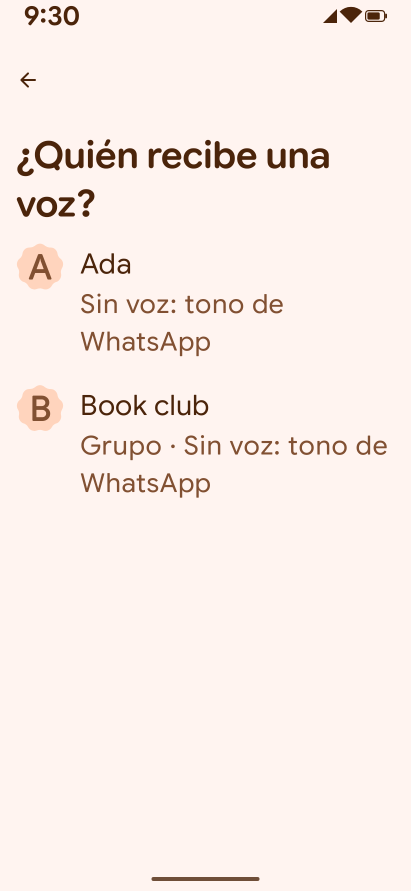
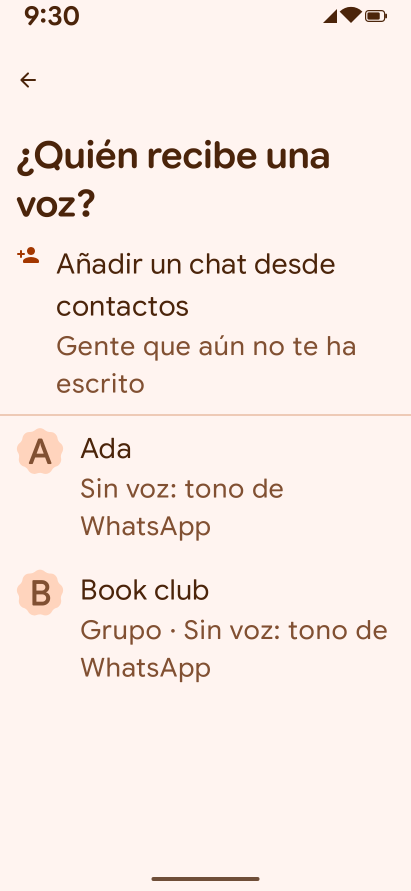
feat(contacts): add a chat from contacts and link it on its first message
Explainer, READ_CONTACTS only after it, the WhatsApp entries of Android's
contacts with search, waiting chats on Home, linking only on an exact,
unique match with no namesake, and "Who is this?" for the rest (ADR 0065).

diff --git a/android/app/src/main/kotlin/app/mauri/cucuto/ui/contacts/AddFromContactsScreen.kt b/android/app/src/main/kotlin/app/mauri/cucuto/ui/contacts/AddFromContactsScreen.kt
@@ -193,10 +193,27 @@ fun AddFromContactsContent(
         },
     ) { padding ->
         when (state.step) {
-            AddStep.Explainer -> Explainer(Modifier.padding(padding))
-            AddStep.Loading -> Loading(Modifier.padding(padding))
-            AddStep.Denied -> Denied(onOpenSettings, onContinue, onBack, Modifier.padding(padding))
-            AddStep.List -> if (state.total == 0) Empty(onBack, Modifier.padding(padding)) else ContactList(state, padding, onQueryChange, onToggle)
+            AddStep.Explainer -> {
+                Explainer(Modifier.padding(padding))
+            }
+
+            AddStep.Loading -> {
+                Loading(Modifier.padding(padding))
+            }
+
+            AddStep.Denied -> {
+                Denied(onOpenSettings, onContinue, onBack, Modifier.padding(padding))
+            }
+
+            AddStep.List -> {
+                if (state.total ==
+                    0
+                ) {
+                    Empty(onBack, Modifier.padding(padding))
+                } else {
+                    ContactList(state, padding, onQueryChange, onToggle)
+                }
+            }
         }
     }
 }
@@ -207,7 +224,12 @@ private fun Explainer(modifier: Modifier = Modifier) {
     val source = stringResource(R.string.settings_source_url)
     Column(
         verticalArrangement = Arrangement.spacedBy(16.dp),
-        modifier = modifier.fillMaxSize().verticalScroll(rememberScrollState()).padding(horizontal = 24.dp, vertical = 8.dp),
+        modifier =
+            modifier
+                .fillMaxSize()
+                .verticalScroll(
+                    rememberScrollState(),
+                ).padding(horizontal = 24.dp, vertical = 8.dp),
     ) {
         Text(stringResource(R.string.contacts_explainer_lead), style = MaterialTheme.typography.bodyLarge)
         ExplainerPart(R.string.contacts_explainer_reads_title, R.string.contacts_explainer_reads_body)
@@ -290,7 +312,12 @@ private fun Message(
     Column(
         horizontalAlignment = Alignment.CenterHorizontally,
         verticalArrangement = Arrangement.spacedBy(12.dp),
-        modifier = modifier.fillMaxSize().verticalScroll(rememberScrollState()).padding(horizontal = 32.dp, vertical = 24.dp),
+        modifier =
+            modifier
+                .fillMaxSize()
+                .verticalScroll(
+                    rememberScrollState(),
+                ).padding(horizontal = 32.dp, vertical = 24.dp),
     ) {
         CuckooDoor(beat = null, contentDescription = null, modifier = Modifier.size(120.dp))
         Text(
@@ -350,7 +377,10 @@ private fun ContactList(
                     trailingIcon = {
                         if (state.query.isNotEmpty()) {
                             IconButton(onClick = { onQueryChange("") }) {
-                                Icon(Icons.Rounded.Close, contentDescription = stringResource(R.string.contacts_search_clear))
+                                Icon(
+                                    Icons.Rounded.Close,
+                                    contentDescription = stringResource(R.string.contacts_search_clear),
+                                )
                             }
                         }
                     },
@@ -416,7 +446,8 @@ private fun ContactItem(
 }
 
 /** An E.164 number as this phone writes numbers, or as it is when Android cannot format it. */
-internal fun formatNumber(e164: String): String = PhoneNumberUtils.formatNumber(e164, Locale.getDefault().country) ?: e164
+internal fun formatNumber(e164: String): String =
+    PhoneNumberUtils.formatNumber(e164, Locale.getDefault().country) ?: e164
 
 /** Made-up WhatsApp entries for previews and tests: no real names or numbers. */
 internal fun previewContactsState(): AddFromContactsState {
@@ -430,7 +461,11 @@ internal fun previewContactsState(): AddFromContactsState {
         listOf(
             ContactRow(entry("lk-1", "Ada", "34600000001"), known = true, selected = true),
             ContactRow(entry("lk-2", "Bruno", "34600000002"), known = false, selected = true),
-            ContactRow(entry("lk-2", "Bruno", "34600000002", ChatKey.WHATSAPP_BUSINESS), known = false, selected = false),
+            ContactRow(
+                entry("lk-2", "Bruno", "34600000002", ChatKey.WHATSAPP_BUSINESS),
+                known = false,
+                selected = false,
+            ),
             ContactRow(entry("lk-3", "Carla", "34600000003"), known = false, selected = false),
             ContactRow(entry("lk-4", "Dani", "34600000004"), known = false, selected = true),
             ContactRow(entry("lk-5", "Elena", "34600000005"), known = false, selected = false),

diff --git a/android/app/src/main/kotlin/app/mauri/cucuto/home/HomeScreen.kt b/android/app/src/main/kotlin/app/mauri/cucuto/home/HomeScreen.kt
@@ -29,6 +29,7 @@ import androidx.compose.material.icons.rounded.Add
 import androidx.compose.material.icons.rounded.Close
 import androidx.compose.material.icons.rounded.Search
 import androidx.compose.material3.Button
+import androidx.compose.material3.ButtonDefaults
 import androidx.compose.material3.Card
 import androidx.compose.material3.CardDefaults
 import androidx.compose.material3.DropdownMenu
@@ -40,10 +41,9 @@ import androidx.compose.material3.Icon
 import androidx.compose.material3.IconButton
 import androidx.compose.material3.ListItem
 import androidx.compose.material3.ListItemDefaults
-import androidx.compose.material3.OutlinedButton
-import androidx.compose.material3.ButtonDefaults
 import androidx.compose.material3.LoadingIndicator
 import androidx.compose.material3.MaterialTheme
+import androidx.compose.material3.OutlinedButton
 import androidx.compose.material3.Scaffold
 import androidx.compose.material3.SearchBarDefaults
 import androidx.compose.material3.Surface
@@ -89,9 +89,9 @@ import app.mauri.cucuto.navigation.CucutoDestination
 import app.mauri.cucuto.packs.ui.PackPickerTypes
 import app.mauri.cucuto.ui.chat.chatSupportingText
 import app.mauri.cucuto.ui.components.CuckooDoor
-import app.mauri.cucuto.ui.contacts.PersonAddIcon
 import app.mauri.cucuto.ui.components.VoiceAvatar
 import app.mauri.cucuto.ui.components.adaptiveMaxLines
+import app.mauri.cucuto.ui.contacts.PersonAddIcon
 import app.mauri.cucuto.ui.feedback.Feedback
 import app.mauri.cucuto.ui.feedback.LocalFeedback
 import app.mauri.cucuto.ui.motion.SharedElement
@@ -258,7 +258,10 @@ fun HomeContent(
             }
             if (state.showQuestions) {
                 item(key = "questions-header") { SectionHeader(stringResource(R.string.home_questions_header)) }
-                items(state.questions, key = { "question/${it.key.packageName}/${it.key.conversationKey}" }) { question ->
+                items(
+                    state.questions,
+                    key = { "question/${it.key.packageName}/${it.key.conversationKey}" },
+                ) { question ->
                     QuestionItem(question) {
                         feedback.fire(Feedback.Tap)
                         onOpenQuestion(question.key)
@@ -726,7 +729,17 @@ internal fun previewHomeStateWithQuestion(now: Long = PREVIEW_NOW): HomeState {
             ),
         ) +
             listOf(leo1, leo2).map {
-                Chat(it.key, it.contactId, "Leo", false, null, null, 0, awaitingLink = true, phoneNumbers = it.phoneNumbers)
+                Chat(
+                    it.key,
+                    it.contactId,
+                    "Leo",
+                    false,
+                    null,
+                    null,
+                    0,
+                    awaitingLink = true,
+                    phoneNumbers = it.phoneNumbers,
+                )
             }
     return buildHomeState(chats, packs = emptyList(), query = "", packFilter = null, now = now)
 }

diff --git a/android/app/src/main/kotlin/app/mauri/cucuto/ui/contacts/PersonAddIcon.kt b/android/app/src/main/kotlin/app/mauri/cucuto/ui/contacts/PersonAddIcon.kt
@@ -12,12 +12,18 @@ import androidx.compose.ui.unit.dp
  */
 val PersonAddIcon: ImageVector by lazy {
     ImageVector
-        .Builder("PersonAdd", defaultWidth = 24.dp, defaultHeight = 24.dp, viewportWidth = 24f, viewportHeight = 24f)
-        .addPath(
+        .Builder(
+            "PersonAdd",
+            defaultWidth = 24.dp,
+            defaultHeight = 24.dp,
+            viewportWidth = 24f,
+            viewportHeight = 24f,
+        ).addPath(
             pathData =
                 addPathNodes(
-                    "M15 12c2.21 0 4-1.79 4-4s-1.79-4-4-4-4 1.79-4 4 1.79 4 4 4zm-9-2V8c0-.55-.45-1-1-1s-1 .45-1 1v2H2" +
-                        "c-.55 0-1 .45-1 1s.45 1 1 1h2v2c0 .55.45 1 1 1s1-.45 1-1v-2h2c.55 0 1-.45 1-1s-.45-1-1-1H6zm9 4" +
+                    "M15 12c2.21 0 4-1.79 4-4s-1.79-4-4-4-4 1.79-4 4 1.79 4 4 4z" +
+                        "m-9-2V8c0-.55-.45-1-1-1s-1 .45-1 1v2H2c-.55 0-1 .45-1 1s.45 1 1 1h2v2" +
+                        "c0 .55.45 1 1 1s1-.45 1-1v-2h2c.55 0 1-.45 1-1s-.45-1-1-1H6zm9 4" +
                         "c-2.67 0-8 1.34-8 4v1c0 .55.45 1 1 1h14c.55 0 1-.45 1-1v-1c0-2.66-5.33-4-8-4z",
                 ),
             fill = SolidColor(Color.Black),

diff --git a/android/core/data/src/test/kotlin/app/mauri/cucuto/core/data/chats/ChatLinkerTest.kt b/android/core/data/src/test/kotlin/app/mauri/cucuto/core/data/chats/ChatLinkerTest.kt
@@ -64,7 +64,15 @@ class ChatLinkerTest {
         key: String,
         name: String?,
         packageName: String = WA,
-    ) = sightings.record(packageName, key, name, isGroup = false, seenAt = clock.now(), senderKey = null, senderName = null)
+    ) = sightings.record(
+        packageName,
+        key,
+        name,
+        isGroup = false,
+        seenAt = clock.now(),
+        senderKey = null,
+        senderName = null,
+    )
 
     private suspend fun chats() = directory.observeChats().first()
 
@@ -146,7 +154,14 @@ class ChatLinkerTest {
 
             val asked = chats().filter { it.linkCandidates.isNotEmpty() }
             assertEquals(setOf(ChatKey(WA, ANA_LID), ChatKey(WA, OTHER_LID)), asked.map { it.key }.toSet())
-            assertEquals(listOf(firstId, secondId), asked.first().linkCandidates.map { it.contactId }.sorted())
+            assertEquals(
+                listOf(firstId, secondId),
+                asked
+                    .first()
+                    .linkCandidates
+                    .map { it.contactId }
+                    .sorted(),
+            )
 
             linker.confirmLink(ChatKey(WA, ANA_LID), firstId)
 

diff --git a/android/core/data/src/main/kotlin/app/mauri/cucuto/core/data/chats/ChatLinker.kt b/android/core/data/src/main/kotlin/app/mauri/cucuto/core/data/chats/ChatLinker.kt
@@ -121,11 +121,15 @@ class ChatLinker
 
         /** A 1:1 contact already linked to [person]'s Android contact with a key in the same app (phone ringtones). */
         private suspend fun alreadyLinked(person: WhatsAppContact): Long? =
-            contacts.observeContacts().first().firstOrNull { contact ->
-                !contact.contact.isGroup &&
-                    contact.contact.androidLookupKey == person.lookupKey &&
-                    contact.keys.any { it.packageName == person.packageName }
-            }?.contact?.id
+            contacts
+                .observeContacts()
+                .first()
+                .firstOrNull { contact ->
+                    !contact.contact.isGroup &&
+                        contact.contact.androidLookupKey == person.lookupKey &&
+                        contact.keys.any { it.packageName == person.packageName }
+                }?.contact
+                ?.id
 
         /**
          * A chat made from a recent sender, with no Android link, that is [person] by the same rules as linking: the

diff --git a/android/core/data/src/test/kotlin/app/mauri/cucuto/core/data/chats/ChatLinkRulesTest.kt b/android/core/data/src/test/kotlin/app/mauri/cucuto/core/data/chats/ChatLinkRulesTest.kt
@@ -11,12 +11,14 @@ class ChatLinkRulesTest {
     private val anaSighting = UnlinkedSighting(ChatKey(WA, "100000000000001@lid"), "Ana Test")
 
     /** Contacts hold exactly these WhatsApp entries. */
-    private fun entries(vararg people: Pair<String, String>, packageName: String = WA) =
-        ChatLinkRules.namesakesOf(
-            people.mapIndexed { i, (lookupKey, name) ->
-                WhatsAppContact(lookupKey, name, packageName, listOf("3460000000$i@s.whatsapp.net"))
-            },
-        )
+    private fun entries(
+        vararg people: Pair<String, String>,
+        packageName: String = WA,
+    ) = ChatLinkRules.namesakesOf(
+        people.mapIndexed { i, (lookupKey, name) ->
+            WhatsAppContact(lookupKey, name, packageName, listOf("3460000000$i@s.whatsapp.net"))
+        },
+    )
 
     @Test
     fun `an exact unique match links, ignoring case, surrounding spaces and Unicode form`() {

diff --git a/android/app/src/test/kotlin/app/mauri/cucuto/ui/contacts/AddFromContactsViewModelTest.kt b/android/app/src/test/kotlin/app/mauri/cucuto/ui/contacts/AddFromContactsViewModelTest.kt
@@ -81,7 +81,12 @@ class AddFromContactsViewModelTest {
         val anaRow = vm.now.rows.first()
         assertTrue(anaRow.known && anaRow.selected)
         vm.toggle(anaRow.id)
-        assertTrue("known people cannot be unpicked or added twice", vm.now.rows.first().selected)
+        assertTrue(
+            "known people cannot be unpicked or added twice",
+            vm.now.rows
+                .first()
+                .selected,
+        )
         assertEquals(0, vm.now.selected)
     }
 
@@ -129,7 +134,11 @@ class AddFromContactsViewModelTest {
             assertTrue(chats.added.isEmpty())
 
             chats.failAdd = true
-            vm.toggle(vm.now.rows.first().id)
+            vm.toggle(
+                vm.now.rows
+                    .first()
+                    .id,
+            )
             vm.save()
             assertTrue(vm.now.failed)
             assertNull(vm.now.done)

diff --git a/android/core/ringtone/src/test/kotlin/app/mauri/cucuto/core/ringtone/contacts/WhatsAppContactsQueryTest.kt b/android/core/ringtone/src/test/kotlin/app/mauri/cucuto/core/ringtone/contacts/WhatsAppContactsQueryTest.kt
@@ -79,7 +79,12 @@ class WhatsAppContactsQueryTest {
                         ChatKey.WHATSAPP,
                         listOf("34600000001@s.whatsapp.net", "447700900001@s.whatsapp.net"),
                     ),
-                    WhatsAppContact("lk-ana", "Ana Test", ChatKey.WHATSAPP_BUSINESS, listOf("34600000001@s.whatsapp.net")),
+                    WhatsAppContact(
+                        "lk-ana",
+                        "Ana Test",
+                        ChatKey.WHATSAPP_BUSINESS,
+                        listOf("34600000001@s.whatsapp.net"),
+                    ),
                     WhatsAppContact("lk-eva", "Éva Test", ChatKey.WHATSAPP, listOf("34600000004@s.whatsapp.net")),
                     WhatsAppContact("lk-zoe", "Zoe Test", ChatKey.WHATSAPP, listOf("34600000003@s.whatsapp.net")),
                 ),

diff --git a/android/core/data/src/main/kotlin/app/mauri/cucuto/core/data/chats/Chat.kt b/android/core/data/src/main/kotlin/app/mauri/cucuto/core/data/chats/Chat.kt
@@ -192,7 +192,13 @@ internal fun mergeChats(
                 contact.contact.id to
                     LinkCandidate(
                         contactId = contact.contact.id,
-                        key = contact.keys.first { it.kind == ContactKeyKind.PHONE_JID }.let { ChatKey(it.packageName, it.value) },
+                        key =
+                            contact.keys.first { it.kind == ContactKeyKind.PHONE_JID }.let {
+                                ChatKey(
+                                    it.packageName,
+                                    it.value,
+                                )
+                            },
                         displayName = contact.contact.displayName,
                         phoneNumbers = phoneNumbersOf(contact),
                         voice = voices[contact.contact.id],

diff --git a/android/app/src/main/kotlin/app/mauri/cucuto/ui/contacts/AddFromContactsViewModel.kt b/android/app/src/main/kotlin/app/mauri/cucuto/ui/contacts/AddFromContactsViewModel.kt
@@ -155,8 +155,13 @@ class AddFromContactsViewModel
             val needle = _state.value.query.searchable()
             val rows =
                 entries
-                    .filter { needle.isEmpty() || it.displayName.orEmpty().searchable().contains(needle) }
-                    .map { entry ->
+                    .filter {
+                        needle.isEmpty() ||
+                            it.displayName
+                                .orEmpty()
+                                .searchable()
+                                .contains(needle)
+                    }.map { entry ->
                         val isKnown = entry in known
                         val id = EntryId(entry.packageName, entry.lookupKey)
                         ContactRow(entry, known = isKnown, selected = isKnown || id in picked)

diff --git a/android/app/src/main/kotlin/app/mauri/cucuto/navigation/CucutoEntries.kt b/android/app/src/main/kotlin/app/mauri/cucuto/navigation/CucutoEntries.kt
@@ -13,11 +13,11 @@ import app.mauri.cucuto.packs.ui.PackDetailScreen
 import app.mauri.cucuto.packs.ui.PacksImportReview
 import app.mauri.cucuto.packs.ui.PacksScreen
 import app.mauri.cucuto.picker.PickerScreen
+import app.mauri.cucuto.ui.contacts.AddFromContactsScreen
+import app.mauri.cucuto.ui.contacts.ConfirmLinkScreen
 import app.mauri.cucuto.ui.creator.CreatorFinishScreen
 import app.mauri.cucuto.ui.creator.CreatorScreen
 import app.mauri.cucuto.ui.developer.DeveloperScreen
-import app.mauri.cucuto.ui.contacts.AddFromContactsScreen
-import app.mauri.cucuto.ui.contacts.ConfirmLinkScreen
 import app.mauri.cucuto.ui.discover.DiscoverImportReview
 import app.mauri.cucuto.ui.discover.DiscoverRepositories
 import app.mauri.cucuto.ui.discover.DiscoverRepositoryForm

diff --git a/android/app/src/testDebug/kotlin/app/mauri/cucuto/a11y/A11yPushedScreens.kt b/android/app/src/testDebug/kotlin/app/mauri/cucuto/a11y/A11yPushedScreens.kt
@@ -63,7 +63,12 @@ internal object A11yPushedScreens {
             "add-from-contacts" to { AddFromContactsContent(AddFromContactsState(), {}, {}, {}, {}, {}, {}) },
             "add-from-contacts-list" to { AddFromContactsContent(previewContactsState(), {}, {}, {}, {}, {}, {}) },
             "confirm-link" to {
-                ConfirmLinkContent(previewHomeStateWithQuestion().questions.first(), onBack = {}, onPick = {}, onNone = {})
+                ConfirmLinkContent(
+                    previewHomeStateWithQuestion().questions.first(),
+                    onBack = {},
+                    onPick = {},
+                    onNone = {},
+                )
             },
             "home-waiting" to {
                 HomeContent(
